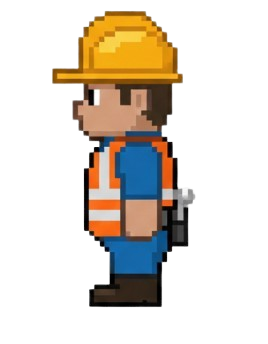
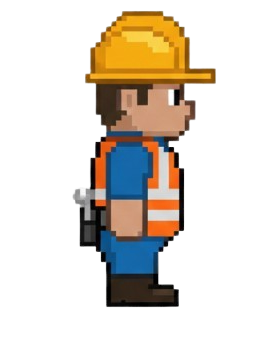
fix: Renderiza personajes correctamente segun direccion de movimiento

Changed region(s): [[0.1791, 0.0291, 0.806, 0.9012]]

diff --git a/src/player.py b/src/player.py
@@ -18,26 +18,31 @@ class Player:
         else:
             self.rect.center = (SCREEN_WIDTH // 2, SCREEN_HEIGHT // 2)
 
-        # Cargar Sprites
-        self.sprites = {}
-        self.load_sprites()
-        
         # Dirección actual ("frente", "espalda", "izquierda", "derecha")
         self.direction = "frente"
-        self.image = self.sprites.get(self.direction)
+
+        # Cargar Sprites (por defecto obrero 1)
+        self.sprites = {}
+        self.load_sprites(character_id=1)
         
         # Sprite personalizado (si se selecciona uno diferente al default)
         self.custom_sprite = None
 
-    def load_sprites(self):
+
+    def load_sprites(self, character_id=1):
         ruta_base = os.path.dirname(os.path.abspath(__file__))
-        ruta_player = os.path.join(ruta_base, "assets", "player")
+        ruta_personajes = os.path.join(ruta_base, "assets", "personajes")
         
         try:
+            # Construir nombres de archivos basados en el character_id
+            archivo_frente = f"obrero{character_id}-frente.png"
+            archivo_espalda = f"obrero{character_id}-espalda.png"
+            archivo_perfil = f"obrero{character_id}-perfil.png"
+
             # Cargar imágenes originales
-            frente = pygame.image.load(os.path.join(ruta_player, "frente.png")).convert_alpha()
-            espalda = pygame.image.load(os.path.join(ruta_player, "espalda.png")).convert_alpha()
-            perfil = pygame.image.load(os.path.join(ruta_player, "perfil.png")).convert_alpha()
+            frente = pygame.image.load(os.path.join(ruta_personajes, archivo_frente)).convert_alpha()
+            espalda = pygame.image.load(os.path.join(ruta_personajes, archivo_espalda)).convert_alpha()
+            perfil = pygame.image.load(os.path.join(ruta_personajes, archivo_perfil)).convert_alpha()
             
             # Escalar al tamaño definido en settings
             self.sprites["frente"] = pygame.transform.scale(frente, (PLAYER_SIZE, PLAYER_SIZE))
@@ -46,12 +51,16 @@ class Player:
             # Invertir perfil para la izquierda
             self.sprites["izquierda"] = pygame.transform.flip(self.sprites["derecha"], True, False)
             
+            # Actualizar imagen actual
+            self.image = self.sprites.get(self.direction, self.sprites["frente"])
+            
         except Exception as e:
-            print(f"⚠ Error cargando sprites del jugador: {e}")
+            print(f"⚠ Error cargando sprites del jugador (obrero {character_id}): {e}")
             # Fallback a un color sólido si fallan las imágenes
             surface = pygame.Surface((PLAYER_SIZE, PLAYER_SIZE))
             surface.fill(COLOR_PLAYER)
             self.sprites = {"frente": surface, "espalda": surface, "izquierda": surface, "derecha": surface}
+            self.image = surface
             
     def set_custom_sprite(self, image):
         """Establece un sprite personalizado único para todas las direcciones (o base)"""

diff --git a/src/character_selector.py b/src/character_selector.py
@@ -48,21 +48,21 @@ class CharacterSelector:
         self.imagen_fondo = self._cargar_imagen(ruta_fondo, SCREEN_WIDTH, SCREEN_HEIGHT)
         
         # Personajes (preservando nombre exacto de variable)
-        # Usamos la misma imagen de frente para todos por ahora
-        ruta_frente = os.path.join("src", "assets", "personajes", "obrero1-frente.png")
-        nombres_png = [
-            ruta_frente,
-            ruta_frente,
-            ruta_frente
-        ]
-        self.lista_personajes_img = [
-            self._cargar_imagen(nombre, 150, 150, alpha=True) 
-            for nombre in nombres_png
+        # Cargamos la imagen de frente de cada obrero
+        nombres_archivos = [
+            "obrero1-frente.png",
+            "obrero2-frente.png",
+            "obrero3-frente.png"
         ]
         
+        self.lista_personajes_img = []
+        for nombre in nombres_archivos:
+            ruta = os.path.join("src", "assets", "personajes", nombre)
+            self.lista_personajes_img.append(self._cargar_imagen(ruta, 150, 150, alpha=True))
         
         # Nombres de personajes
-        self.personajes_nombres = ["Pepe", "Pedro", "Juan"]
+        self.personajes_nombres = ["Pepe (Obrero 1)", "Pedro (Obrero 2)", "Juan (Obrero 3)"]
+
         
         # Calcular áreas de interacción (Rects) para el mouse
         self.rects = []

diff --git a/src/engine.py b/src/engine.py
@@ -108,10 +108,9 @@ class Game:
             if self.game_state == "CHARACTER_SELECT":
                 # Manejar selección de personajes
                 if self.character_selector.handle_event(event):
-                    # Obtener selección y configurar jugador
-                    _, imagen_pj = self.character_selector.get_selected_character()
-                    if imagen_pj:
-                        self.player.set_custom_sprite(imagen_pj)
+                    # Configurar sprites del jugador según la selección
+                    # Indice 0 -> Obrero 1, Indice 1 -> Obrero 2, etc.
+                    self.player.load_sprites(character_id=self.character_selector.indice_seleccionado + 1)
                     
                     # Selección completada, iniciar juego
                     self.game_state = "EXPLORANDO"

diff --git a/src/map_manager.py b/src/map_manager.py
@@ -6,7 +6,7 @@ class MapManager:
     def __init__(self):
         # Rutas relativas dinámicas
         self.ruta_base = os.path.dirname(os.path.abspath(__file__))
-        self.ruta_assets = os.path.join(self.ruta_base, "assets")
+        self.ruta_assets = os.path.join(self.ruta_base, "assets", "items_mapa")
         
         # Cargar imágenes de los tiles
         self.tiles = {
